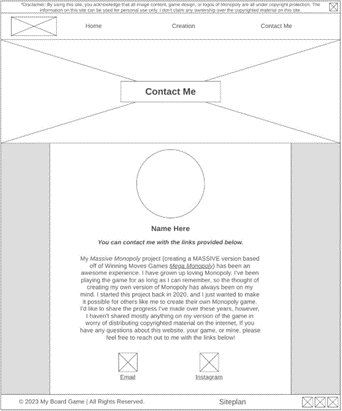
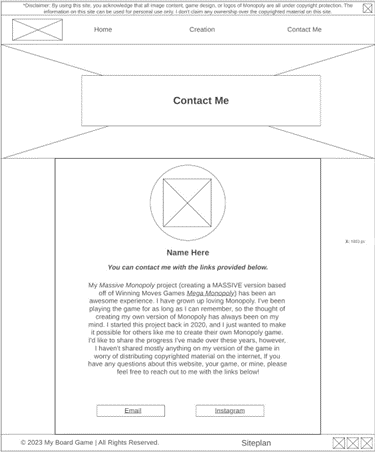
Updated contact me css and contact me image
Added an image and sized the disclaimer to match

diff --git a/styles/contactme.css b/styles/contactme.css
@@ -79,6 +79,7 @@ hr {
 }
 
 #in-grid {
+    border: 3px solid #528299;
     width: 86%;
     padding: 4% 0;
     display: grid;
@@ -214,3 +215,18 @@ hr {
         font-style: italic;
     }
 }
+
+@media screen and (min-width: 0px) {
+    /* Clamp is a fairly new css attribute and therefore is not widely
+    supported as of now, so I can't use it here as it doesn't seem to
+    work. As a substitute, we can introduce a css font-size "lock".
+    This calculation takes the current viewport size, subtracts
+    320px (from my understanding, 320px is a general screen size
+    for mobile devices.) from it, divides that by 680 (an average
+    big screen size), then multiply the result by 3 and add 15px.
+    (inspiration from css-tricks:
+    https://css-tricks.com/how-do-you-do-max-font-size-in-css/) */
+    body {
+      font-size: calc(15px + 3 * ((100vw - 320px) / 680));
+    }
+  }
